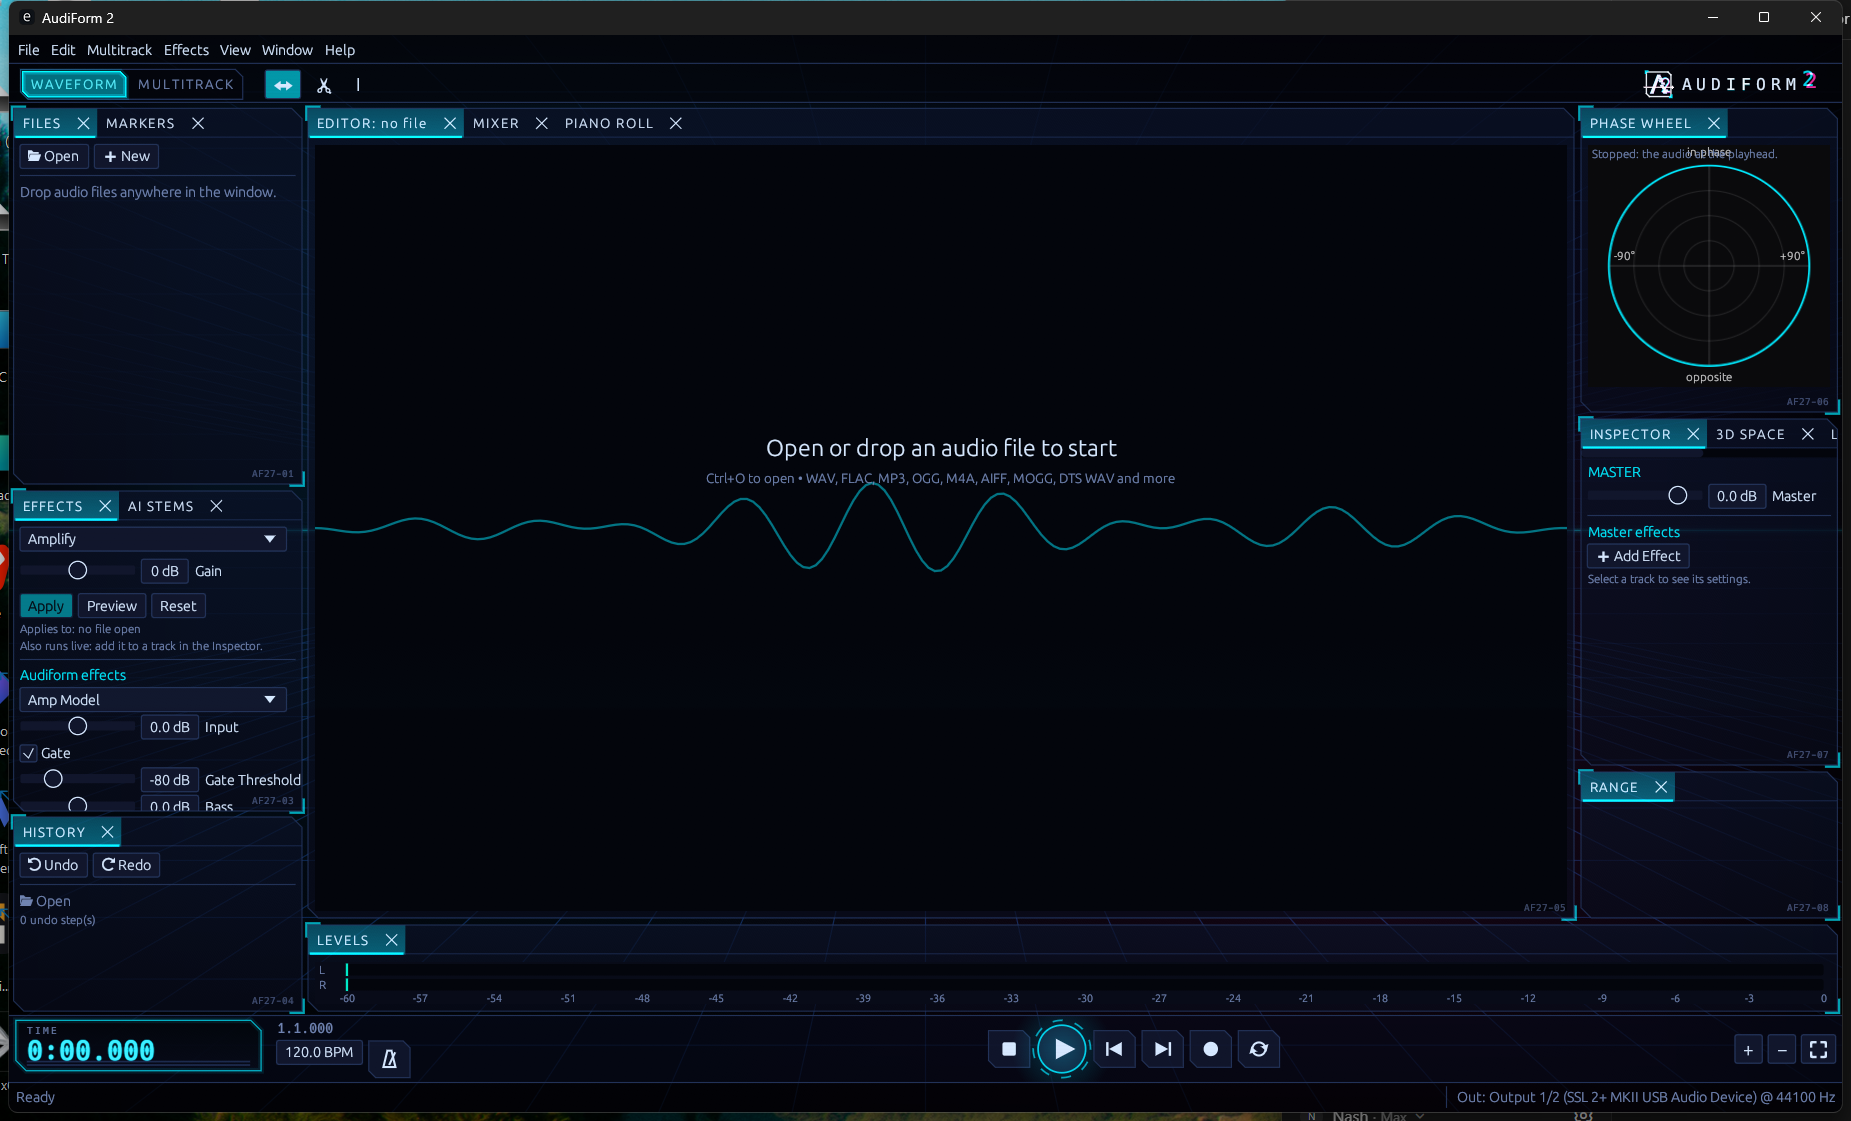
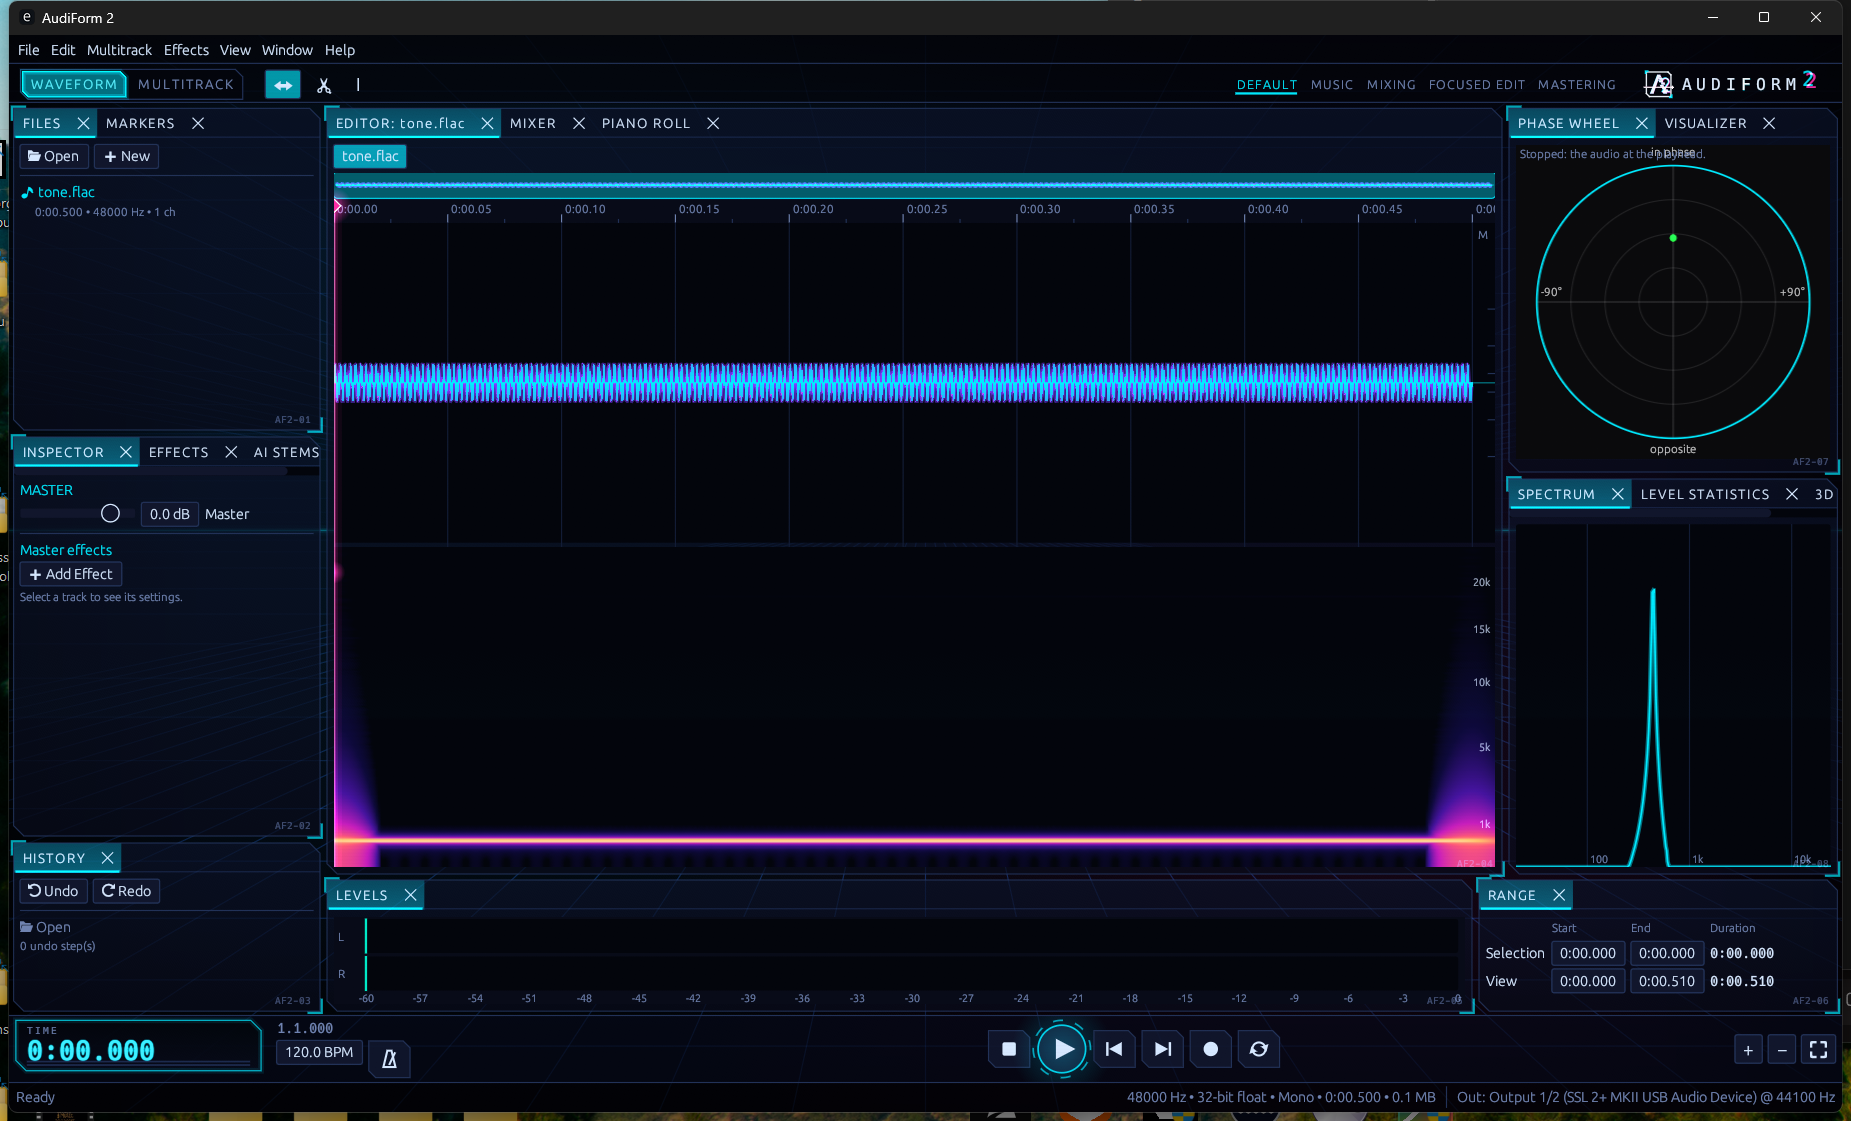
Workspaces: Default laid out like the leading editor and Audiform, plus Music, Mixing, Focused Edit and Mastering

diff --git a/app/src/workspace.rs b/app/src/workspace.rs
@@ -1,0 +1,175 @@
+// SPDX-License-Identifier: LicenseRef-Audiform27
+// Copyright (c) The Audiform27 contributors.
+
+//! Workspaces: ready-made arrangements of the dockable panels.
+//!
+//! The Default follows the arrangement long-time users of the leading
+//! commercial editor and of Audiform expect: a left column running the
+//! full height (Files, then the effect rack, then History), the Editor in
+//! the centre with the Mixer behind it, a right column of analysis panels,
+//! and the Levels meter along the bottom under the centre and right with
+//! the selection and view times at its right end. The others rearrange the
+//! same panels for a job. Every workspace can be changed by dragging; the
+//! changes are kept until Window > Workspace > Reset.
+
+use egui_dock::{DockState, NodeIndex};
+
+use crate::ui::Tab;
+
+#[derive(Debug, Clone, Copy, PartialEq, Eq)]
+pub enum Workspace {
+    Default,
+    Music,
+    Mixing,
+    FocusedEdit,
+    Mastering,
+}
+
+impl Workspace {
+    pub const ALL: [Workspace; 5] = [
+        Workspace::Default,
+        Workspace::Music,
+        Workspace::Mixing,
+        Workspace::FocusedEdit,
+        Workspace::Mastering,
+    ];
+
+    pub fn name(self) -> &'static str {
+        match self {
+            Workspace::Default => "Default",
+            Workspace::Music => "Music",
+            Workspace::Mixing => "Mixing",
+            Workspace::FocusedEdit => "Focused Edit",
+            Workspace::Mastering => "Mastering",
+        }
+    }
+
+    pub fn about(self) -> &'static str {
+        match self {
+            Workspace::Default => "Files, effect rack and History on the left; Editor and Mixer in the middle; analysis on the right; Levels and the selection times along the bottom",
+            Workspace::Music => "Tracks in the middle; effects and History on the left; Phase Wheel, Visualizer, 3D Space and AI Stems on the right",
+            Workspace::Mixing => "The Mixer up front with tall meters; files and markers on the left; the track Inspector on the right",
+            Workspace::FocusedEdit => "As much room as possible for the timeline: files on the left, levels below",
+            Workspace::Mastering => "Loudness statistics, spectrum and Phase Wheel on the right; the effect rack on the left",
+        }
+    }
+
+    /// For the saved setting.
+    pub fn key(self) -> &'static str {
+        match self {
+            Workspace::Default => "default",
+            Workspace::Music => "music",
+            Workspace::Mixing => "mixing",
+            Workspace::FocusedEdit => "focused-edit",
+            Workspace::Mastering => "mastering",
+        }
+    }
+
+    pub fn from_key(k: &str) -> Workspace {
+        Workspace::ALL
+            .into_iter()
+            .find(|w| w.key() == k.trim())
+            .unwrap_or(Workspace::Default)
+    }
+
+    /// The arrangement, built as the window is: the left column first so
+    /// it runs the full height, then the bottom row under the centre and
+    /// right, then the right column. Fractions are the left or top part.
+    pub fn build(self) -> DockState<Tab> {
+        use Tab::*;
+        match self {
+            Workspace::Default => {
+                let mut d = DockState::new(vec![Editor, Mixer, PianoRoll]);
+                let s = d.main_surface_mut();
+                let [centre, left] = s.split_left(NodeIndex::root(), 0.17, vec![Files, Markers]);
+                let [_files, rack] = s.split_below(left, 0.36, vec![Inspector, Effects, AiSeparation]);
+                let [_rack, _history] = s.split_below(rack, 0.7, vec![History]);
+                let [centre, bottom] = s.split_below(centre, 0.85, vec![Levels]);
+                let [_levels, _range] = s.split_right(bottom, 0.76, vec![Selection]);
+                let [_editor, right] = s.split_right(centre, 0.78, vec![Phase, Visualizer]);
+                let [_phase, _more] = s.split_below(right, 0.48, vec![Spectrum, Statistics, Space]);
+                d
+            }
+            Workspace::Music => {
+                let mut d = DockState::new(vec![Editor, Mixer, PianoRoll]);
+                let s = d.main_surface_mut();
+                let [centre, left] = s.split_left(NodeIndex::root(), 0.17, vec![Files, Markers]);
+                let [_files, rack] = s.split_below(left, 0.36, vec![Inspector, Effects, Statistics]);
+                let [_rack, _history] = s.split_below(rack, 0.7, vec![History]);
+                let [centre, bottom] = s.split_below(centre, 0.85, vec![Levels]);
+                let [_levels, _range] = s.split_right(bottom, 0.76, vec![Selection]);
+                let [_editor, right] = s.split_right(centre, 0.76, vec![Phase, Visualizer]);
+                let [_phase, _space] = s.split_below(right, 0.45, vec![Space, AiSeparation]);
+                d
+            }
+            Workspace::Mixing => {
+                let mut d = DockState::new(vec![Mixer, Editor, PianoRoll]);
+                let s = d.main_surface_mut();
+                let [centre, left] = s.split_left(NodeIndex::root(), 0.15, vec![Files]);
+                let [_files, _markers] = s.split_below(left, 0.55, vec![Markers, History]);
+                let [centre, bottom] = s.split_below(centre, 0.8, vec![Levels]);
+                let [_levels, _range] = s.split_right(bottom, 0.8, vec![Selection]);
+                let [_mixer, _right] = s.split_right(centre, 0.78, vec![Inspector, Effects]);
+                d
+            }
+            Workspace::FocusedEdit => {
+                let mut d = DockState::new(vec![Editor, Mixer, PianoRoll]);
+                let s = d.main_surface_mut();
+                let [centre, _left] = s.split_left(NodeIndex::root(), 0.13, vec![Files, Markers, History]);
+                let [_editor, bottom] = s.split_below(centre, 0.88, vec![Levels]);
+                let [_levels, _range] = s.split_right(bottom, 0.8, vec![Selection]);
+                d
+            }
+            Workspace::Mastering => {
+                let mut d = DockState::new(vec![Editor, Mixer]);
+                let s = d.main_surface_mut();
+                let [centre, left] = s.split_left(NodeIndex::root(), 0.18, vec![Inspector, Effects]);
+                let [_rack, _files] = s.split_below(left, 0.62, vec![Files, History]);
+                let [centre, bottom] = s.split_below(centre, 0.8, vec![Levels]);
+                let [_levels, _range] = s.split_right(bottom, 0.76, vec![Selection]);
+                let [_editor, right] = s.split_right(centre, 0.72, vec![Statistics]);
+                let [_stats, lower] = s.split_below(right, 0.42, vec![Spectrum]);
+                let [_spec, _phase] = s.split_below(lower, 0.5, vec![Phase, Visualizer]);
+                d
+            }
+        }
+    }
+}
+
+#[cfg(test)]
+mod tests {
+    use super::*;
+
+    #[test]
+    fn every_workspace_builds_and_has_the_editor_and_levels() {
+        for w in Workspace::ALL {
+            let d = w.build();
+            assert!(d.find_tab(&Tab::Editor).is_some(), "{}", w.name());
+            assert!(d.find_tab(&Tab::Levels).is_some(), "{}", w.name());
+            assert_eq!(Workspace::from_key(w.key()), w);
+        }
+        assert_eq!(Workspace::from_key("nope"), Workspace::Default);
+    }
+
+    #[test]
+    fn the_default_shows_every_main_panel() {
+        let d = Workspace::Default.build();
+        for t in [
+            Tab::Files,
+            Tab::Markers,
+            Tab::Inspector,
+            Tab::Effects,
+            Tab::AiSeparation,
+            Tab::History,
+            Tab::Mixer,
+            Tab::Selection,
+            Tab::Phase,
+            Tab::Visualizer,
+            Tab::Spectrum,
+            Tab::Statistics,
+            Tab::Space,
+        ] {
+            assert!(d.find_tab(&t).is_some(), "{t:?}");
+        }
+    }
+}

diff --git a/app/src/ui.rs b/app/src/ui.rs
@@ -6,7 +6,7 @@
 //! new place, tabbed with others, split, or floated in its own window.
 
 use egui::{Key, KeyboardShortcut, Modifiers, RichText, Rounding};
-use egui_dock::{DockArea, DockState, NodeIndex, Style, TabViewer};
+use egui_dock::{DockArea, DockState, Style, TabViewer};
 use serde::{Deserialize, Serialize};
 
 use crate::state::{data_dir, Mode, State, Tool};
@@ -75,23 +75,6 @@ impl Tab {
     }
 }
 
-pub fn default_layout() -> DockState<Tab> {
-    let mut dock = DockState::new(vec![Tab::Editor, Tab::Mixer, Tab::PianoRoll]);
-    let s = dock.main_surface_mut();
-    let [center, left] = s.split_left(NodeIndex::root(), 0.16, vec![Tab::Files, Tab::Markers]);
-    let [_files, left_mid] = s.split_below(left, 0.42, vec![Tab::Effects, Tab::AiSeparation]);
-    let [_fx, _hist] = s.split_below(left_mid, 0.62, vec![Tab::History]);
-    let [center, _levels] = s.split_below(center, 0.9, vec![Tab::Levels]);
-    let [_editor, right] = s.split_right(center, 0.83, vec![Tab::Phase, Tab::Visualizer]);
-    let [_phase, right_mid] = s.split_below(
-        right,
-        0.38,
-        vec![Tab::Inspector, Tab::Space, Tab::Statistics, Tab::Spectrum],
-    );
-    let [_stats, _range] = s.split_below(right_mid, 0.7, vec![Tab::Selection]);
-    dock
-}
-
 pub struct App {
     pub st: State,
     dock: DockState<Tab>,
@@ -121,8 +104,16 @@ pub struct Caches {
     pub piano: crate::pianoroll::PianoState,
 }
 
-fn layout_path() -> std::path::PathBuf {
-    data_dir().join("layout2.json")
+/// Each workspace keeps its own arrangement, as the user left it.
+fn layout_path(w: crate::workspace::Workspace) -> std::path::PathBuf {
+    data_dir().join(format!("layout3-{}.json", w.key()))
+}
+
+fn load_layout(w: crate::workspace::Workspace) -> DockState<Tab> {
+    std::fs::read_to_string(layout_path(w))
+        .ok()
+        .and_then(|s| serde_json::from_str(&s).ok())
+        .unwrap_or_else(|| w.build())
 }
 
 impl App {
@@ -131,10 +122,7 @@ impl App {
         st.theme.apply(&cc.egui_ctx);
         st.theme_changed = false;
         st.open_paths(files);
-        let dock = std::fs::read_to_string(layout_path())
-            .ok()
-            .and_then(|s| serde_json::from_str(&s).ok())
-            .unwrap_or_else(default_layout);
+        let dock = load_layout(st.workspace);
         App {
             st,
             dock,
@@ -148,6 +136,24 @@ impl App {
         }
     }
 
+    fn save_layout(&self) {
+        let _ = std::fs::create_dir_all(data_dir());
+        if let Ok(s) = serde_json::to_string(&self.dock) {
+            let _ = std::fs::write(layout_path(self.st.workspace), s);
+        }
+    }
+
+    /// Keeps the current workspace's arrangement and shows another's.
+    fn switch_workspace(&mut self, w: crate::workspace::Workspace) {
+        if w == self.st.workspace {
+            return;
+        }
+        self.save_layout();
+        self.st.workspace = w;
+        self.dock = load_layout(w);
+        let _ = std::fs::write(data_dir().join("workspace.txt"), w.key());
+    }
+
     fn show_tab(&mut self, tab: Tab) {
         if let Some(found) = self.dock.find_tab(&tab) {
             self.dock.set_active_tab(found);
@@ -159,10 +165,7 @@ impl App {
 
 impl Drop for App {
     fn drop(&mut self) {
-        let _ = std::fs::create_dir_all(data_dir());
-        if let Ok(s) = serde_json::to_string(&self.dock) {
-            let _ = std::fs::write(layout_path(), s);
-        }
+        self.save_layout();
     }
 }
 
@@ -777,8 +780,28 @@ fn menus(app: &mut App, ui: &mut egui::Ui) {
                 }
             }
             ui.separator();
+            ui.menu_button("Workspace", |ui| {
+                for w in crate::workspace::Workspace::ALL {
+                    if ui
+                        .radio(st.workspace == w, w.name())
+                        .on_hover_text(w.about())
+                        .clicked()
+                    {
+                        st.want_workspace = Some(w);
+                        ui.close_menu();
+                    }
+                }
+                ui.separator();
+                if ui
+                    .button(format!("Reset \"{}\" to Saved Layout", st.workspace.name()))
+                    .clicked()
+                {
+                    app.dock = st.workspace.build();
+                    ui.close_menu();
+                }
+            });
             if ui.button("Reset Layout").clicked() {
-                app.dock = default_layout();
+                app.dock = st.workspace.build();
                 ui.close_menu();
             }
         });
@@ -822,6 +845,31 @@ fn toolbar(ui: &mut egui::Ui, st: &mut State) {
         ui.with_layout(egui::Layout::right_to_left(egui::Align::Center), |ui| {
             ui.add_space(6.0);
             crate::hud::wordmark(ui, &th, &fx);
+            ui.add_space(18.0);
+            // Workspaces, along the top right as the leading editor has them.
+            for w in crate::workspace::Workspace::ALL.iter().rev() {
+                let on = st.workspace == *w;
+                let text = RichText::new(w.name().to_uppercase())
+                    .size(11.0)
+                    .extra_letter_spacing(1.2)
+                    .color(if on { c(th.accent) } else { c(th.text_dim) });
+                let r = ui.add(egui::Label::new(text).sense(egui::Sense::click()));
+                if on {
+                    let y = r.rect.bottom() + 2.0;
+                    ui.painter().line_segment(
+                        [egui::pos2(r.rect.left(), y), egui::pos2(r.rect.right(), y)],
+                        egui::Stroke::new(2.0_f32, c(th.accent)),
+                    );
+                }
+                let r = r.on_hover_text(w.about());
+                if r.hovered() {
+                    ui.ctx().set_cursor_icon(egui::CursorIcon::PointingHand);
+                }
+                if r.clicked() {
+                    st.want_workspace = Some(*w);
+                }
+                ui.add_space(6.0);
+            }
         });
     });
 }
@@ -1259,6 +1307,9 @@ impl eframe::App for App {
             });
         if let Some(t) = open_tab {
             self.show_tab(t);
+        }
+        if let Some(w) = self.st.want_workspace.take() {
+            self.switch_workspace(w);
         }
         if self.st.want_piano {
             self.st.want_piano = false;

diff --git a/app/src/state.rs b/app/src/state.rs
@@ -205,6 +205,9 @@ pub struct State {
     pub meter: (f32, f32),
     /// Motion and music state for the HUD chrome.
     pub fx: crate::hud::Fx,
+    /// The workspace on screen, and one the toolbar asked to switch to.
+    pub workspace: crate::workspace::Workspace,
+    pub want_workspace: Option<crate::workspace::Workspace>,
     /// Visual effects: 0 Auto (cut back when frames are slow), 1 Full, 2 Lite.
     pub visuals_mode: u8,
     /// Auto mode decided this device needs the lighter look.
@@ -307,6 +310,10 @@ impl State {
             return_on_stop: true,
             meter: (0.0, 0.0),
             fx: crate::hud::Fx::default(),
+            workspace: crate::workspace::Workspace::from_key(
+                &std::fs::read_to_string(data_dir().join("workspace.txt")).unwrap_or_default(),
+            ),
+            want_workspace: None,
             visuals_mode: std::fs::read_to_string(data_dir().join("visuals.txt"))
                 .ok()
                 .and_then(|s| s.trim().parse().ok())

diff --git a/app/src/main.rs b/app/src/main.rs
@@ -17,6 +17,7 @@ mod theme;
 mod ui;
 mod visualizer;
 mod waveform;
+mod workspace;
 
 fn main() -> eframe::Result<()> {
     fx::register();
